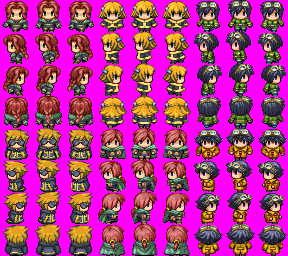
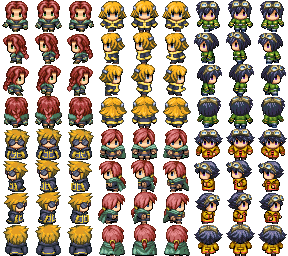
Dialog Symbol
Added the symbol to the bottom right of the dialog box.
Fixed some of the character sprite sheets.

diff --git a/src/main/java/com/monkeystomp/spirelands/gui/dialog/DialogBox.java b/src/main/java/com/monkeystomp/spirelands/gui/dialog/DialogBox.java
@@ -22,22 +22,30 @@ public class DialogBox {
                     DIALOG_PADDING_BOTTOM = 12,
                     MESSAGE_SPEED = 3,
                     BACKGROUND_COLOR = 0xEFEFEF;
-                    
-  
   private final Color TEXT_COLOR = new Color(0x323232);
+  private final String  DOWN_TRIANGLE = "\u25BE",
+                        TIMES = "\u2A2F";
+  private String currentSymbol = TIMES;
   private String[]  messages,
                     words;
   private ArrayList<String> lineMessages = new ArrayList<>(),
                             displayLineMessages = new ArrayList<>();
-  private boolean messageBuilding = false;
+  private boolean messageBuilding = false,
+                  dialogReady = false;
   private Sprite background;
   private Font font = new Font(Font.SANS_SERIF, Font.BOLD, 22);
+  private Font symbolFont = new Font(Font.SANS_SERIF, Font.PLAIN, 30);
   private FontRenderContext frc = new FontRenderContext(null, true, true);
   private int timer = 0,
+              symbolAnim = 0,
               messageIndex = 0,
               substringIndex = 0,
               renderLineIndex = 0,
-              dialogLineHeight;
+              dialogLineHeight,
+              dialogCurrentHeight,
+              symbolX = DIALOG_WIDTH + 4,
+              symbolY = 0;
+  private FontInfo symbolFontInfo = new FontInfo(symbolFont, TEXT_COLOR, currentSymbol, symbolX, symbolY);
   private ArrayList<FontInfo> lines = new ArrayList<>();
   private INotify notifier = (KeyEvent e) -> handleSpaceKey(e);
   private ICallback callback;
@@ -61,23 +69,29 @@ public class DialogBox {
   }
 
   private void advanceDialog() {
-    lines.clear();
-    lineMessages.clear();
-    displayLineMessages.clear();
-    substringIndex = 0;
     displayMessage(messageIndex);
   }
   
   public void openDialog(String[] messages) {
+    dialogReady = false;
     this.messages = messages;
     displayMessage(messageIndex);
     Keyboard.getKeyboard().addKeyPressNotifier(notifier);
+    dialogReady = true;
   }
   
   private void displayMessage(int messageIndex) {
+    lines.clear();
+    lineMessages.clear();
+    displayLineMessages.clear();
+    substringIndex = 0;
+    renderLineIndex = 0;
     words = messages[messageIndex].split(" ");
     setLines(0, 0);
     createBackground();
+    setSymbol();
+    updateFontInfo();
+    messageBuilding = true;
   }
 
   private void setLines(int lineIndex, int wordIndex) {
@@ -105,18 +119,23 @@ public class DialogBox {
         break;
       }
     }
-    updateFontInfo();
-    messageBuilding = true;
-    renderLineIndex = 0;
   }
   
   private void createBackground() {
     dialogLineHeight = (int)(font.getStringBounds("random string", frc).getHeight() / Screen.getScaleY());
+    dialogCurrentHeight = dialogLineHeight * lineMessages.size() + DIALOG_PADDING_TOP + DIALOG_PADDING_BOTTOM;
     background = new Sprite(
       DIALOG_WIDTH,
-      dialogLineHeight * lineMessages.size() + DIALOG_PADDING_TOP + DIALOG_PADDING_BOTTOM,
+      dialogCurrentHeight,
       BACKGROUND_COLOR
     );
+  }
+  
+  private void setSymbol() {
+    if (messageIndex < messages.length - 1) currentSymbol = DOWN_TRIANGLE;
+    else currentSymbol = TIMES;
+    symbolY = DIALOG_TOP + dialogCurrentHeight - 8;
+    symbolFontInfo = new FontInfo(symbolFont, TEXT_COLOR, currentSymbol, symbolX, symbolY);
   }
 
   private void updateFontInfo() {
@@ -145,23 +164,50 @@ public class DialogBox {
           substringIndex = 0;
           buildCurrentMessage();
         }
-        else messageBuilding = false;
+        else {
+          messageBuilding = false;
+          timer = 0;
+        }
       }
     }
     timer++;
+  }
+  
+  private void animateSymbol() {
+    switch (symbolAnim % 48) {
+      case 0:
+        symbolY++;
+      break;
+      case 12:
+        symbolY--;
+      break;
+      case 24:
+        symbolY--;
+      break;
+      case 36:
+        symbolY++;
+      break;
+    }
+    symbolFontInfo = new FontInfo(symbolFont, TEXT_COLOR, currentSymbol, symbolX, symbolY);
+    symbolAnim++;
   }
 
   public void update() {
     if (messageBuilding) {
        buildCurrentMessage();
     }
-    else timer = 0;
+    if (messageIndex < messages.length - 1) {
+      animateSymbol();
+    }
   }
 
   public void render(Screen screen) {
-    screen.renderSprite(DIALOG_TOP, DIALOG_LEFT, background, 8, false);
-    for (int i = 0; i < lines.size(); i++) {
-      screen.addText(lines.get(i));
+    if (dialogReady) {
+      screen.renderSprite(DIALOG_LEFT, DIALOG_TOP, background, 8, false);
+      for (int i = 0; i < lines.size(); i++) {
+        screen.addText(lines.get(i));
+      }
+      screen.addText(symbolFontInfo);
     }
   }
 }

diff --git a/src/main/java/com/monkeystomp/spirelands/level/entity/mob/GuardPlayer.java b/src/main/java/com/monkeystomp/spirelands/level/entity/mob/GuardPlayer.java
@@ -101,6 +101,6 @@ public class GuardPlayer extends Player {
   
   @Override
   public void render(Screen screen) {
-    screen.renderPlayer(x - SPRITE_SIZE / 2, y - SPRITE_SIZE / 2, characterActions.get(currentAction), true);
+    screen.renderSprite(x - SPRITE_SIZE / 2, y - SPRITE_SIZE / 2, characterActions.get(currentAction), true);
   }
 }
